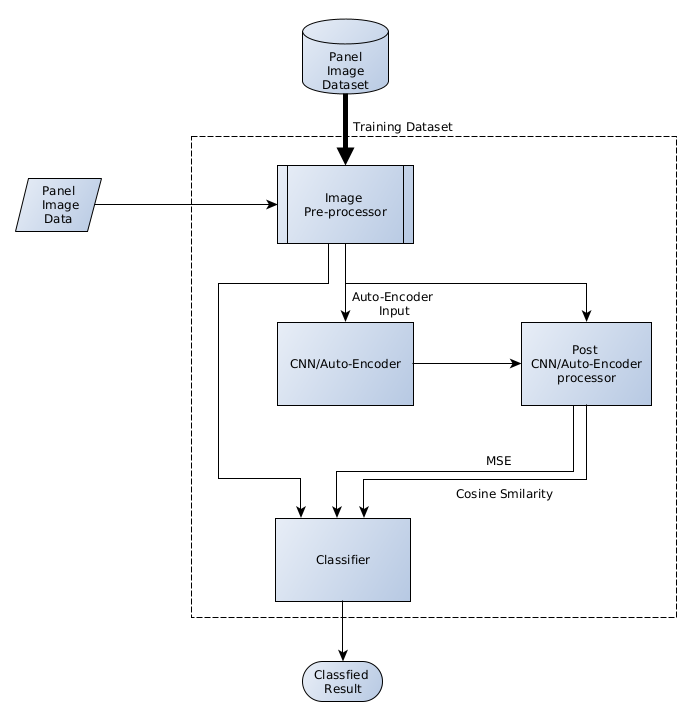
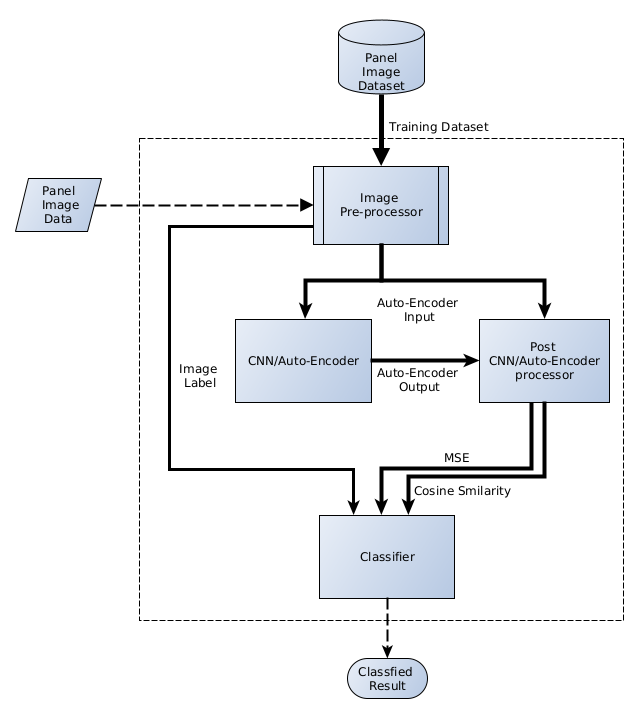
Commit the updates for report. Some of them just for placeholder, we may change them later on.

diff --git a/report/report.tex b/report/report.tex
@@ -1,0 +1,139 @@
+%
+\documentclass[runningheads]{llncs}
+%
+\usepackage{graphicx}
+% Used for displaying a sample figure. If possible, figure files should
+% be included in EPS format.
+%
+% If you use the hyperref package, please uncomment the following line
+% to display URLs in blue roman font according to Springer's eBook style:
+% \renewcommand\UrlFont{\color{blue}\rmfamily}
+
+\title{A CNN Based AMOLED Display Aging Compensation Quality Evaluation System\\
+ECE657A Spring2020 Project Report}
+\author{Alyssa Yiqin Huang, Tong Liu}
+\date{15th ,August 2020}
+
+\institute{Electrical and Computer Engineering, University of Waterloo\\
+200 University Ave W, Waterloo, ON N2L 3G1, Ontario, Canada\\
+\email{ yiqin.huang@uwaterloo.ca ,t344liu@uwaterloo.ca}}
+\begin{document}
+
+\maketitle              % typeset the header of the contribution
+%
+\begin{abstract}
+An accurate and quick display luminance uniformity evaluation function plays a key feedback role for the automated AMOLED Display aging compensation evaluation system. In this report we discuss a CNN autoencoder based luminance uniformity evaluation system which we designed and implemented for AMOLED display aging compensation performance evaluation. Within a short period of time we are able to design, implement the system and use the system to detect whether an aged AMOLED display has a high quality compensation, a low quality compensation or had no compensation in a relatively good accuracy rate.
+
+\keywords{ CNN autoencoder\and AMOLED Display Aging\and AMOLED Display Aging Compensation \and Luminance Uniformity}
+\end{abstract}
+
+%
+%
+%
+\section{Introduction}
+AMOLED display panel has been widely used as high-end smart phone display, TV display and
+automotive car informatic display. A major long-term performance issue of AMOLED display is OLED
+material aging, which is the luminance performance drop at aged area cause nonuniformity issue on AMOLED display. This luminance nonuniformity shows a symptom is called burn-in see \ref{fig:1}.
+To solve OLED aging issue and eliminate burn-in on AMOLED display, Ignis Innovation Inc. has developed a state of art OLED aging compensation solution to solve OLED aging problem see \ref{fig:2}.
+However, to evaluate the OLED aging compensation quality is processed based on human vision. It
+takes a lot of time. Its evaluations vary from person to person and difficult to compare between
+evaluation results. How to evaluate the quality of OLED aging compensation with a speedy and
+accurate approach is a technical challenge.
+During ECE657A project, we tried to develop an OLED aging compensation evaluation function to solve above technical challenge by using the knowledge and techniques which we have learned in this course. We build a prototype system which is having conceptual functionality works as expect. The system able to detect the AMOLED display OLED aging compensation quality is GOOD or BAD. GOOD compensation quality means with OLED aging compensation, the brightness uniformity on the OLED display is beyond a certain threshold. Apparently, there will be no visible burn-in aging area on display while smart phone is normally running.BAD compensation quality means with OLED aging compensation the brightness uniformity on the OLED display is below to a certain threshold. There could be some visible burn-in area still showing on OLED display
+
+
+\begin{figure}
+    \centering
+    \includegraphics[width=0.3\textwidth]{uncomp.jpeg}
+    \caption{An AMOLED display was aged and has OLED burn-in shown on display}
+    \label{fig:1}
+\end{figure}
+\begin{figure}
+    \centering
+    \includegraphics[width=0.3\textwidth]{comp.jpeg}
+    \caption{With OLED aging compensation,the same AMOLED display's burn-in is eliminated}
+    \label{fig:2}
+\end{figure}
+
+\section{Literature review}
+In order to archive the project, except the materials we learned from ECE657A course, we also referenced a numbers of papers in the fields of image processing, machine learning ,deep learning and AMOLED display technologies. 
+Peter Barten’s research on the contrast sensitivity of human eye [10] provides a formula for contrast sensitivity which is helpful to improve accuracy of result by minimize the contrast sensitivity various of human eye. This can be done by implementing contrast sensitivity function to emphasis the difference between AMOLED display's normal areas and OLED aging areas.
+Kazuki Tsutsukawa and his team at EIZO Corporation, developed an Evaluation system for Luminance Non-Uniformity Based on Deep Neural Networks. Their research paper shows that the possibility for using deep neural networks [4] to evaluate luminance non-uniformity automatically, which enables optimization of feature quantity extraction.
+
+\section{Design Considerations}
+We design the system under below considerations. Figure\ref{fig:3} shows a high level overall system diagram of our system. We will briefly discuss each part of the system in this section.
+\begin{figure}
+    \centering
+    \includegraphics[width=0.8\textwidth]{system_diagram.png}
+    \caption{System Design Diagram}
+    \label{fig:3}
+\end{figure}
+\subsection{System Input - Laod Training Dataset}
+System shall take image files from specified folder which contains two sub-folders - "comp" and " uncomp". They stores the panel image files. Folder "comp" contains panel images those have good quality compensation, folder "uncomp" contains panel images those have bad quality of compensation. The image file shall be either jpeg or png format. System will use these data folders as training datasets, the folder names "comp" and "uncomp" will be used later in the project as label.
+\subsection{Data Pre-process}
+Tong to add more details\\
+After loading the images, these images need to be pre-processed in order to fit into system to train system. \\
+The data pre-processing need to preform image data integrity check.\\
+Data cleaning\\
+Resizing the image to meet the quality and speed requirements\\
+Run selected image filter to emphasis image's the non-uniform area. 
+\subsection{Auto-Encoder}
+Alyssa put more details\\
+The auto-encoder takes pre-processed image data as input data fit into auto-encoder, get auto-encoder's output data. Based on auto-encoder's input and output data calculate two indicators as 2 dimensional result. 
+First indicator is Mean square error of input and output data. The second indicator is Cosine similarity of input and output data. \\
+\subsection{Find System Decision Boundary}
+After entire dataset went through auto-encoder, we shall get two dimensional data arrays of MSE and Cosine similarity, fit this 2D data array with "comp/uncomp" label information to a classifier, then we shall be able to find good/bad compensation quality decision boundary. 
+\subsection{Output}
+Once system and classifier was trained, the system shall be ready to take testing set to detect whether the display panel had a good or bad quality compensation.
+
+\section{System Implementation}
+Based on the design considerations those we discussed in previous section, we implemented the system with python. Here we will discuss more implementation details in this section. 
+\subsection{Image pre-processing}
+Image pre-processor plays an important role in this system. As sample image loaded from dataset has to meet the requirements of autoencoder to archive the goal, and meet the quality and speed performance requirements.  We have implemented numbers of pre-process functionalities mainly in two parts. \\
+\begin{figure}
+    \centering
+    \includegraphics[width=0.4\textwidth]{Pixel2-uncomp-original.jpeg}
+    \caption{Original AMOLED panel Image}
+    \label{fig:4}
+\end{figure}
+\begin{figure}
+    \centering
+    \includegraphics[width=0.2\textwidth, angle=270]{Pixel2-Uncomp-g.jpeg}
+    \caption{AMOLED Panel Image After Data Cleaning}
+    \label{fig:5}
+\end{figure}
+In original image there are dark areas were taken by camera, they need to be cut, and dark areas at four corners need to be cleaned by filled with mean value.\\
+First part includes data cleaning, data resizing, data flatten, and etc. Figure\ref{fig:4} and figure\ref{fig:5} show AMOLED panel image before and after data cleaning process.\\
+\begin{figure}
+    \centering
+    \includegraphics[width=0.6\textwidth]{surface_plot_fft_lowpass.png}
+    \caption{FFT Gaussian Low Pass Filter}
+    \label{fig:6}
+\end{figure}
+
+The second part of image pre-processing is image data filtering process. \\
+In our project proposal, we mentioned we planned to implement a CSF - Contrast Sensitivity Function, to reduce impact by the difference of sensitivity between each human eyes. However, while we are working on implementation we noticed that to be able to calculate the contrast sensitivity, we need four parameters, they are spatial frequency in cycle/degree, display luminance, surround luminance, Field of view in degree, we realized that we were lacking the equipment to measure surround area luminance data during the panel measurement. As the trade off, we decided to use FFT-Gaussian-LowPass filter to enhance the luminance difference between the nonuniform and uniform areas of AMOLED panels. The output from FFT-Gaussian-LowPass filter is used as Auto-encoder's input. Figure\ref{fig:6} shows that the pre-processed original image and the image after FFT-Gaussian-Lowpass filter processed. At here, compare with left side of plot, on the right side of plot, we can clearly see that after FFT-Gaussian-Lowpass filter processing, luminance difference between the compensated area and normal areas was enlarged.
+After image pre-processing phase, the pre-processed data will be passed to next major module - the CNN based autoencoder. 
+\subsection{CNN based Auto-encoder}
+
+\subsection{Choose Classifier and Decision Boundary}
+From auto-encoder, we get two sets of compensation quality evaluation indicators. MSE and Cosine Similarity. The next step is use these indicators and image sample label to train classifier, Classifier is trained with training dataset, after training the system is ready for the AMOLED aging compensation quality classification.\\
+Due to the limited samples, it gave us some difficulty to choose a classifier with better preformance, and clear decision boundary. We took some time to work on choosing suitable classifier for this project. Based on current image samples, finally we chose KNN as classifier with K equal to 4. Please see figure\ref{fig:7} which shows decision boundary based on KNN algorithm with training dataset. The decision boundary plot based on two performance indicators. The Y axis is Cosine similarity, and X Axis is Mean Square Error. As we can see, any image sample fall into the Left-Upper corner of the plot indicates the high compensation quality, on the other side indicates bad compensation quality.\\
+In the future as we could get more image samples, we would redo the evaluation for the classifier selection. We could have new decision boundary as compensation quality selection base.
+ 
+\begin{figure}
+    \centering
+    \includegraphics[width=0.5\textwidth]{decision-boundary.png}
+    \caption{Decision Boundary}
+    \label{fig:7}
+\end{figure}\\
+
+\section{System Performance Evaluation}
+
+\section{Discussion}
+
+\section{Conclusion and Future work}
+
+\section{Reference}
+\end{document}
+
